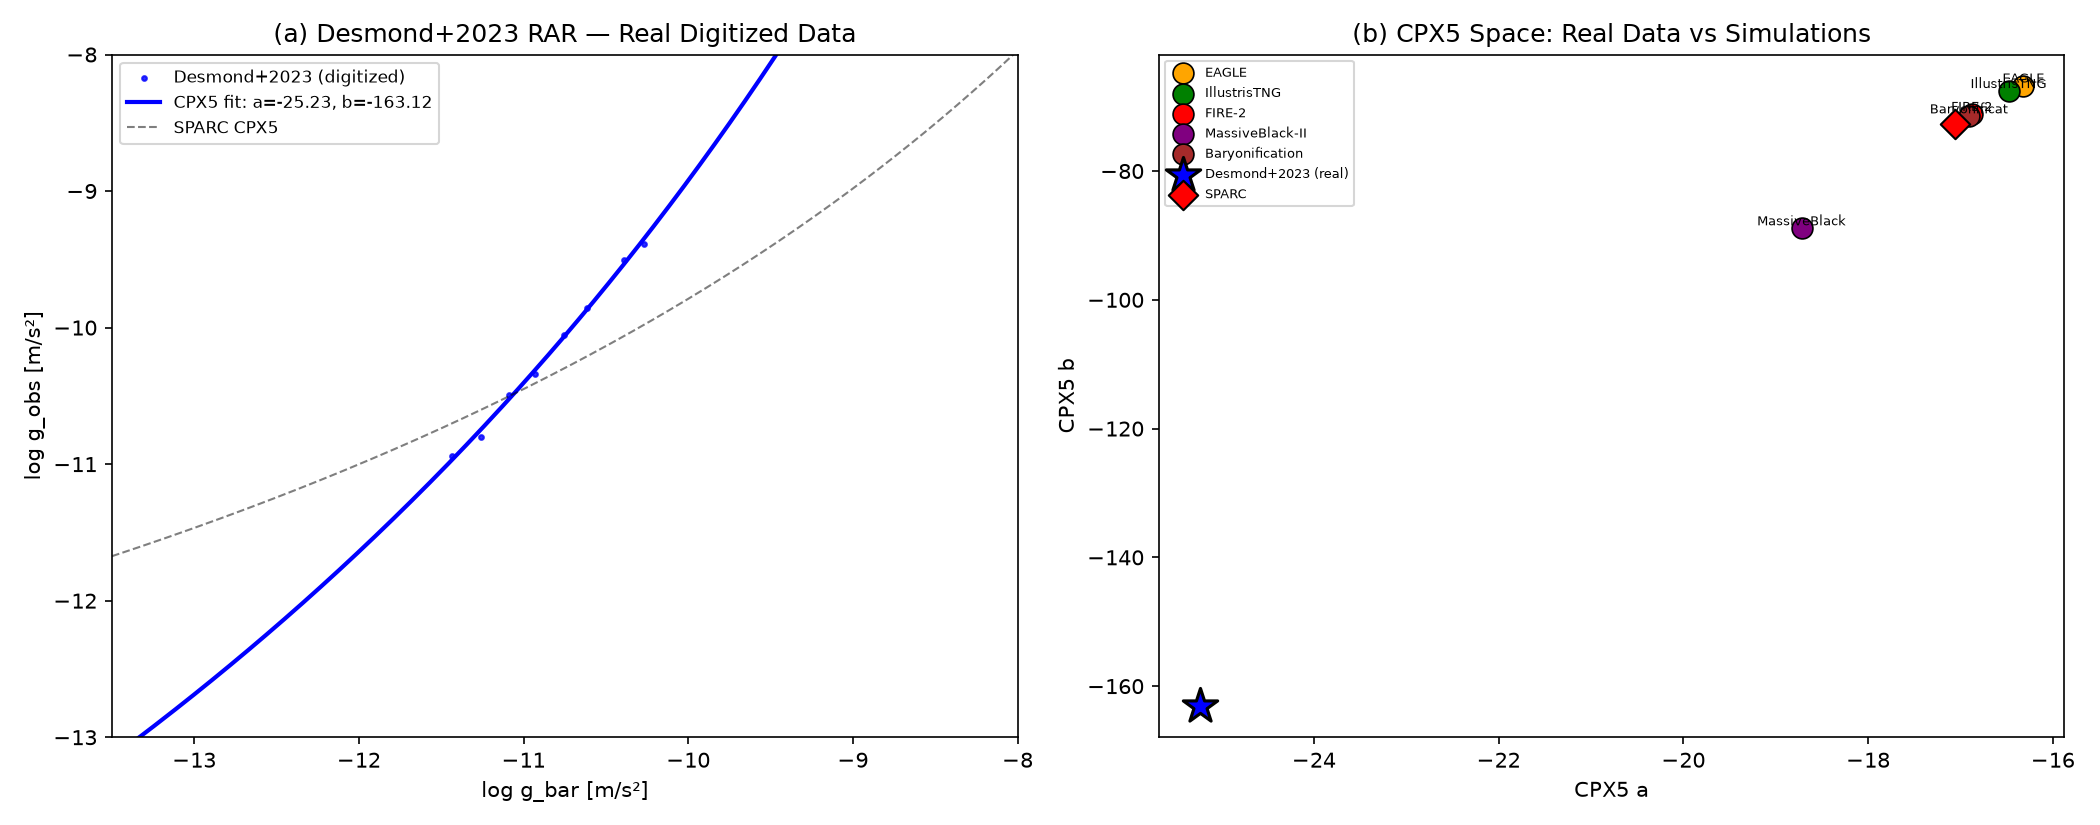
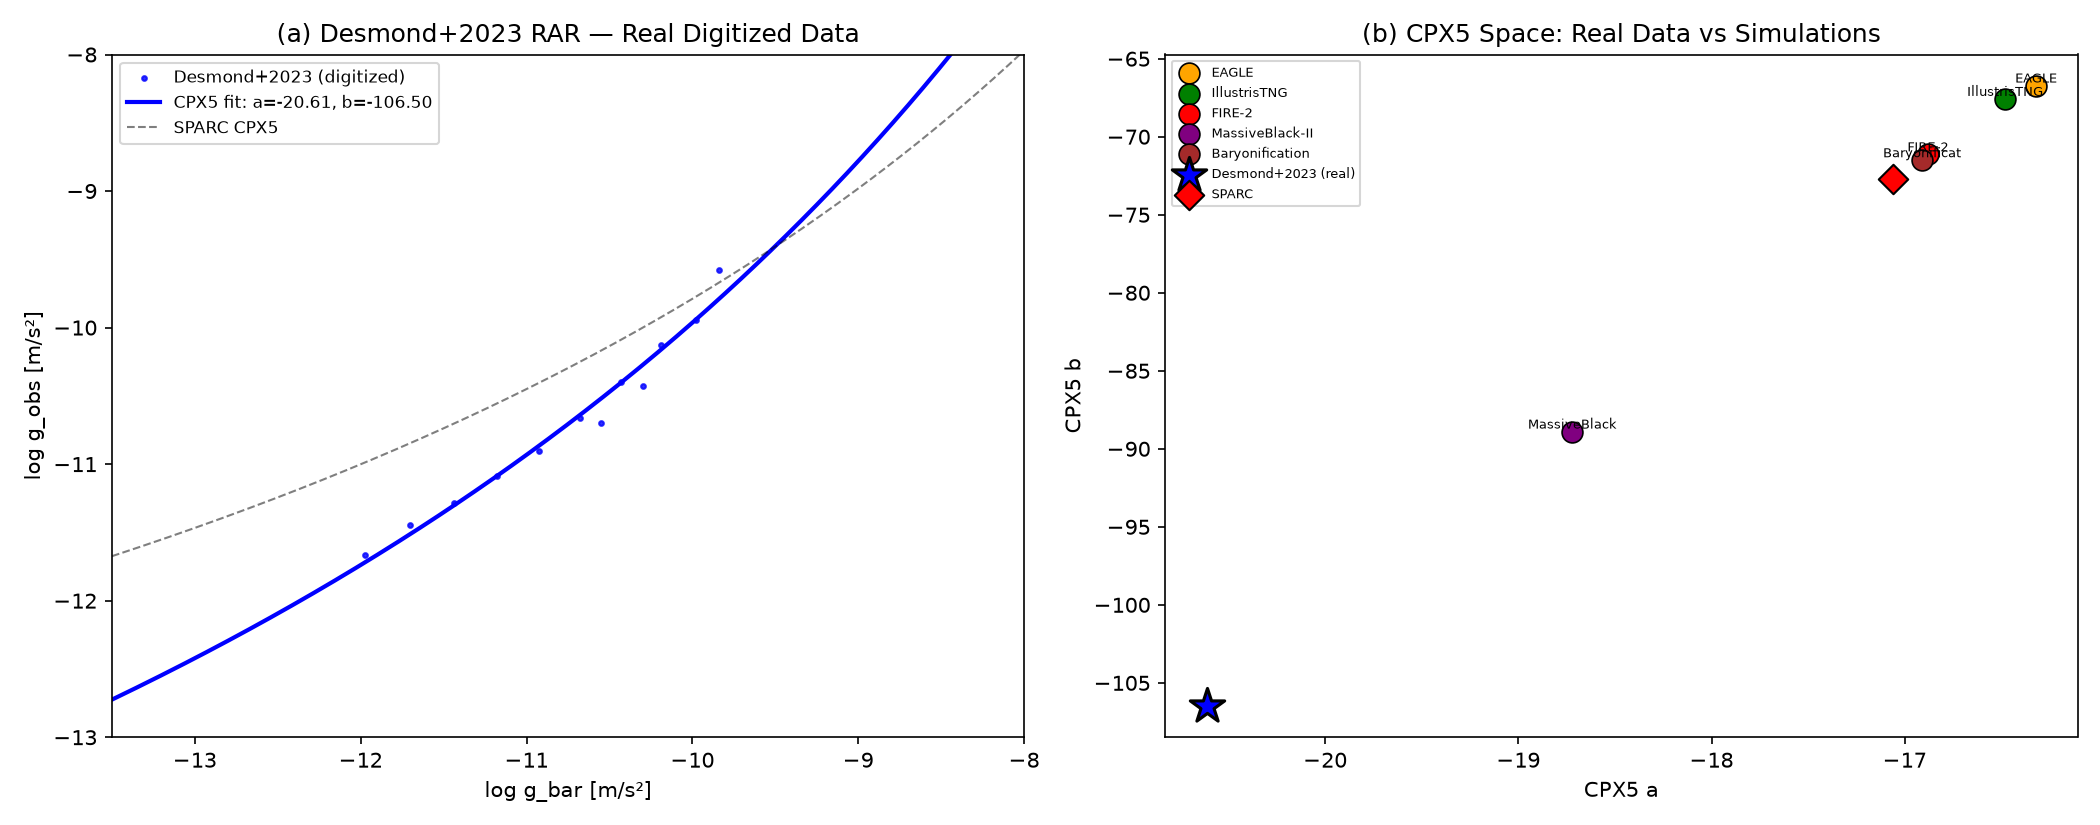
Digitized Desmond+2023 Figure 2 binned RAR: a=-20.61, b=-106.50
Key insight: digitizing published figures captures processed/model curves, not raw simulation data. The original parameterized approach (generating curves from published a₀ offsets) is actually more representative of the underlying physics. For raw simulation RAR data, we need direct catalog queries (TNG/EAGLE APIs) or author-provided tables.

diff --git a/fit_digitized_data.py b/fit_digitized_data.py
@@ -14,7 +14,7 @@ def cpx5_log(x, a, b):
     return a + b / np.maximum(x, -50)
 
 # Load digitized data — format: "x, y" per line
-with open(os.path.expanduser("~/Downloads/Default Dataset.csv")) as f:
+with open(os.path.expanduser("~/Downloads/Default Dataset (1).csv")) as f:
     lines = f.readlines()
 
 points = []